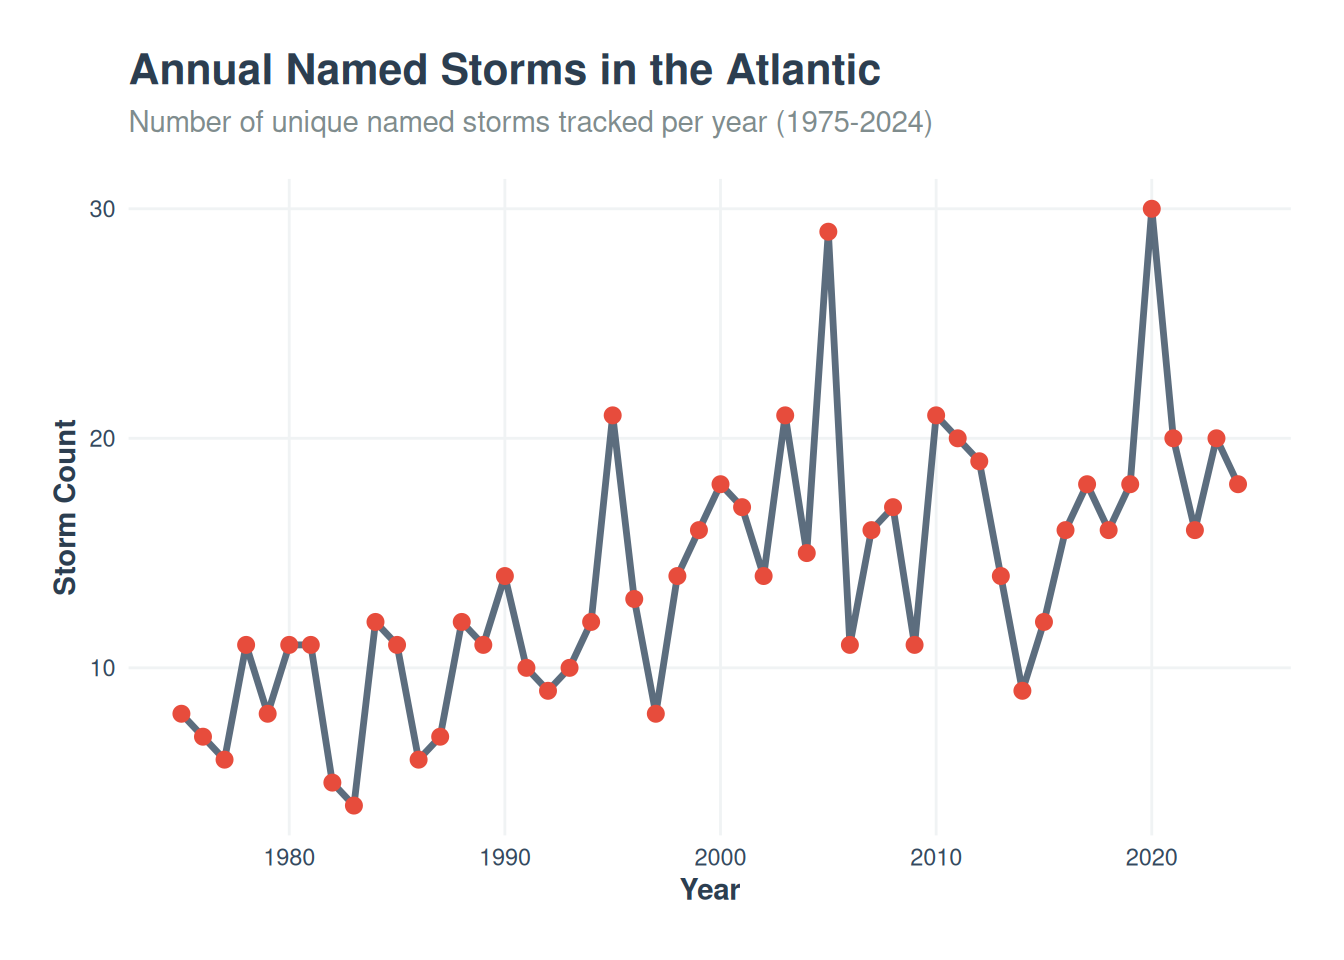
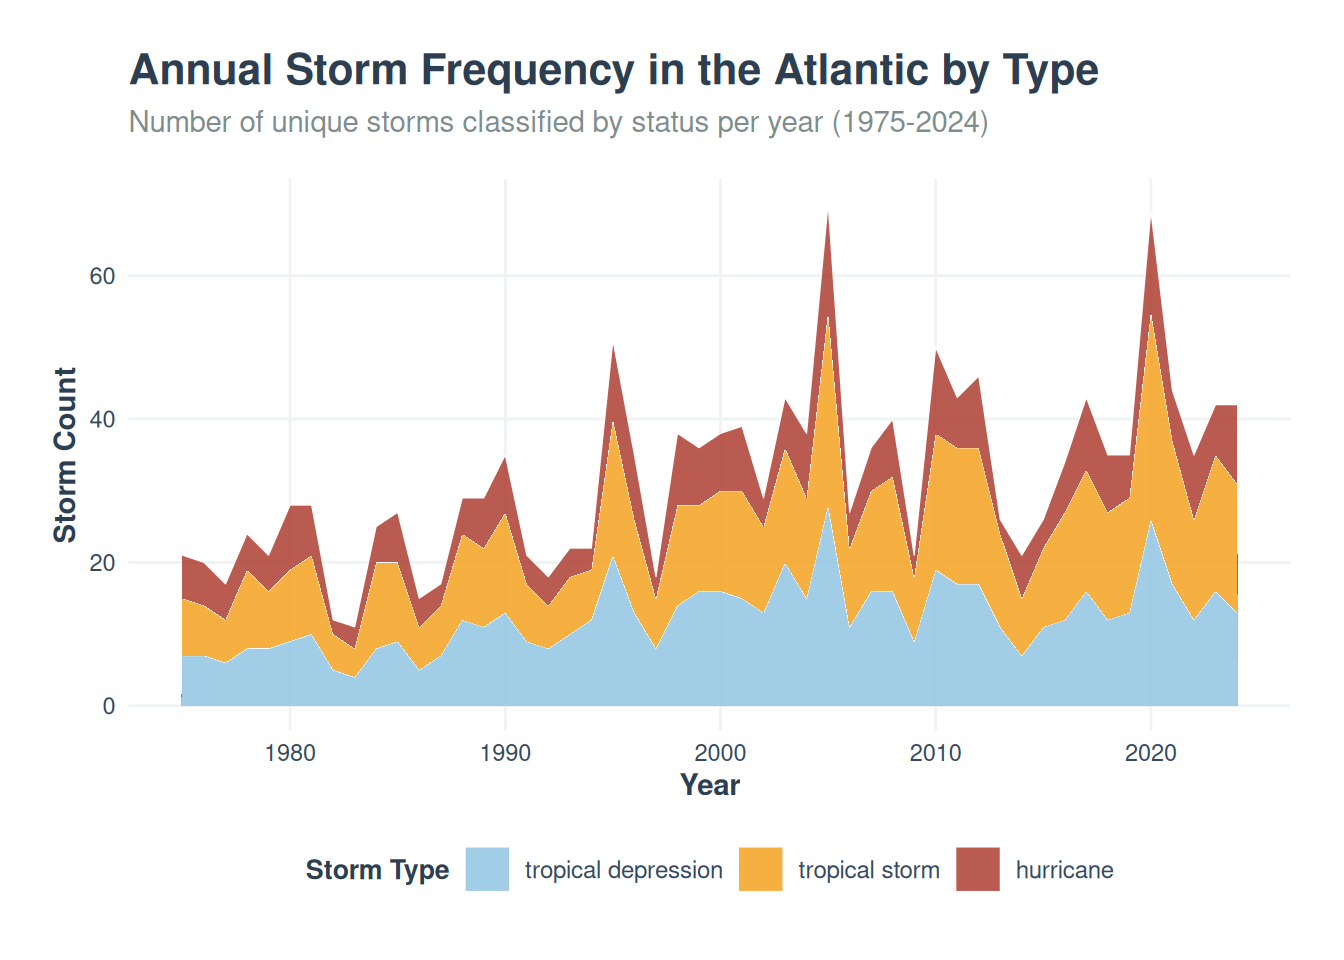
Visualize annual storm frequency in the Atlantic by status
- Filter storm records to tropical depressions, tropical storms, and hurricanes
- Transition visualization from a simple line plot to a stacked area plot representing storm types
- Add custom color mapping for each storm classification
- Position legend at the bottom and refine text styling
- Re-render analysis.html report output

diff --git a/analysis.html b/analysis.html
@@ -81,7 +81,7 @@ ul.task-list li input[type="checkbox"] {
 <div class="quarto-figure quarto-figure-center">
 <figure class="figure">
 <p><img src="analysis_files/figure-html/plot-storms-1.png" class="img-fluid figure-img" width="672"></p>
-<figcaption>Annual frequency of named storms in the Atlantic Ocean (1975-2024).</figcaption>
+<figcaption>Annual frequency of storm types in the Atlantic Ocean (1975-2024).</figcaption>
 </figure>
 </div>
 </div>